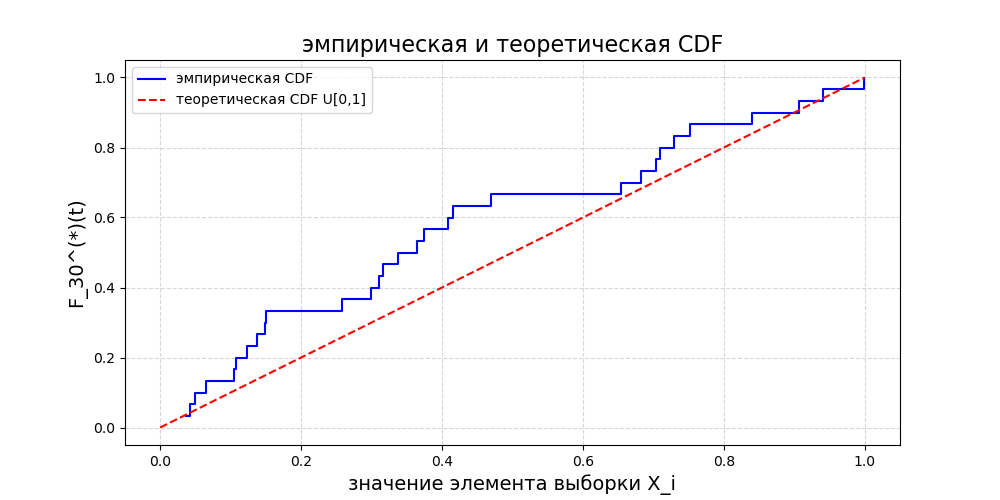
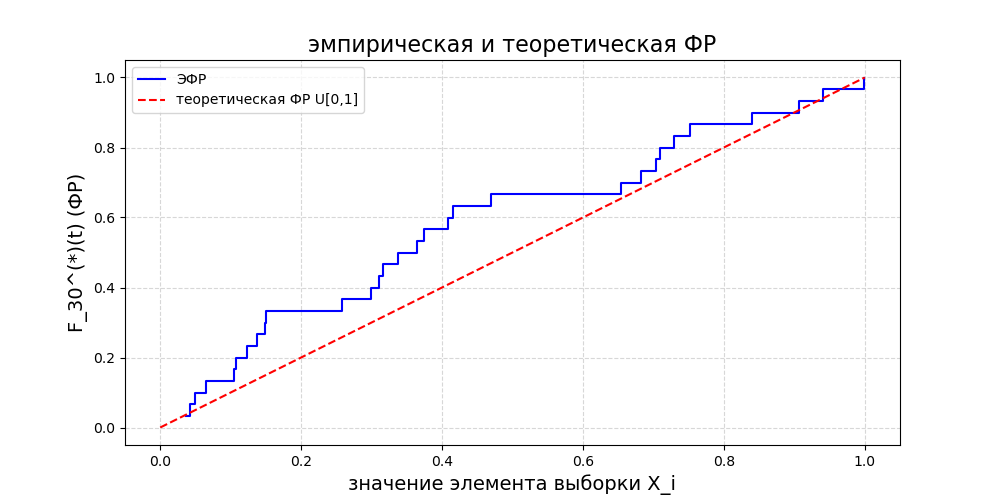
addded text comments + cosmetic changes

Changed region(s): [[0.31, 0.06, 0.713, 0.12], [0.062, 0.33, 0.093, 0.66], [0.155, 0.15, 0.372, 0.21]]

diff --git a/task2/make_ECDF.py b/task2/make_ECDF.py
@@ -8,20 +8,19 @@ data = [0.037, 0.941, 0.683, 0.15, 0.84, 0.137, 0.374, 0.316, 0.907, 0.042,
 x = np.sort(data)
 n = len(x) # размер выборки=30
 
-# empirical CDF значения на каждом элементе: i/n (i от 1 до n) 
+# ЭФР значения на каждом элементе: i/n (i от 1 до n) 
 y = np.arange(1, n+1) / n # массив [1, 2, ..., n], делим каждый элемент на n => [1/n, 2/n, ..., n/n]
 
-# theoretical CDF для U[0,1] <=> F(X)=X на [0,1] 
+# теориетическая ФР для U[0,1] <=> F(X)=X на [0,1] 
 x_line = np.linspace(0, 1, 100)
-theoretical_cdf = x_line
 
 plt.figure(figsize=(10, 5))
-plt.step(x, y, where='post', label='эмпирическая CDF', color='blue') # ЭФР - ступенчатый график (where - положение вертикального перехода между ступенками (pre, mid, post))
-plt.plot(x_line, theoretical_cdf, linestyle='--', label='теоретическая CDF U[0,1]', color='red') # теоретическая ФР отображаю f(x)=x на [0,1] 
+plt.step(x, y, where='post', label='ЭФР', color='blue') # ЭФР - ступенчатый график (where - положение вертикального перехода между ступенками (pre, mid, post))
+plt.plot(x_line, x_line, linestyle='--', label='теоретическая ФР U[0,1]', color='red')
 
 plt.xlabel('значение элемента выборки X_i', fontsize=14)
-plt.ylabel('F_30^(*)(t) (CDF)', fontsize=14)
-plt.title('эмпирическая и теоретическая CDF', fontsize=16)
+plt.ylabel('F_30^(*)(t) (ФР)', fontsize=14)
+plt.title('эмпирическая и теоретическая ФР', fontsize=16)
 plt.legend()
 plt.grid(True, linestyle='--', alpha=0.5)
 plt.savefig("ECDF.png")

diff --git a/task2/make_histogram.py b/task2/make_histogram.py
@@ -1,17 +1,18 @@
 import matplotlib.pyplot as plt # для графиков
+import numpy as np
 
 data = [0.037, 0.941, 0.683, 0.15, 0.84, 0.137, 0.374, 0.316, 0.907, 0.042,
         0.729, 0.065, 0.709, 0.299, 0.105, 0.703, 0.149, 0.049, 0.107, 0.470, 
         0.258, 0.364, 0.415, 0.123, 0.311, 0.752, 0.999, 0.409, 0.337, 0.654]
 
 n = len(data)
-k = 5
-x_min, x_max = min(data), max(data)
-print("a = {}, b = {}".format(x_min, x_max))
-h = (x_max - x_min) / k # ширина каждого бина (отрезка)
+k = int(1 + 3.322 * np.log10(n)) # правило Стёрджеса
+a, b = min(data), max(data)
+print("a = {}, b = {}".format(a, b))
+h = (b - a) / k # ширина каждого бина (отрезка)
 
 # границы интервалов
-bins = [x_min + i*h for i in range(k+1)]
+bins = [a + i*h for i in range(k+1)]
 
 # сама гистограмма плотности
 plt.figure(figsize=(10, 5))

diff --git a/task2/pirson_test.py b/task2/pirson_test.py
@@ -38,7 +38,7 @@ p_value = 1 - chi2.cdf(res, df)
 print(f"расстояние хи-квадрат/Пирсона (res): {res:.3f}")
 print(f"значение квантиля распределения хи-квадрат уровня 1 - epsilon (c_kvantil): {c_kvantil:.3f}")
 
-if (res >= 15.421):
+if (res >= c_kvantil):
     print(f"отвергаем H_0: данные НЕ следуют равномерному распределению U[0, 1] ({res:.3f} >= 15.421)")
 else:
     print(f"принимаем H_0: данные согласуются с равномерным распределением U[0, 1] ({res:.3f} < 15.421)")
